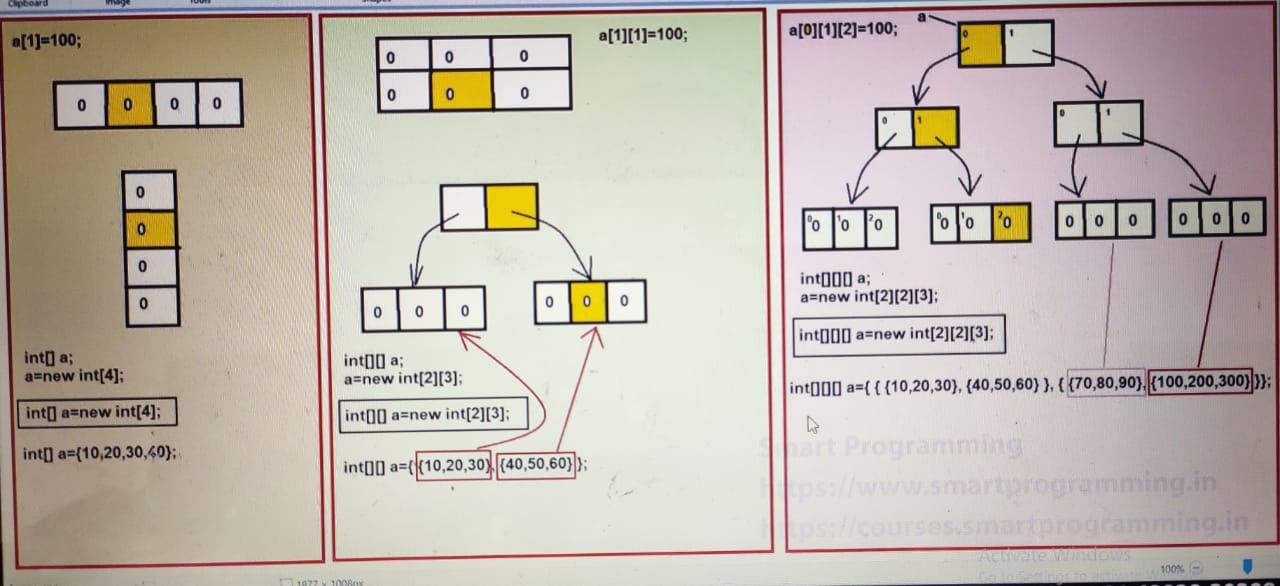
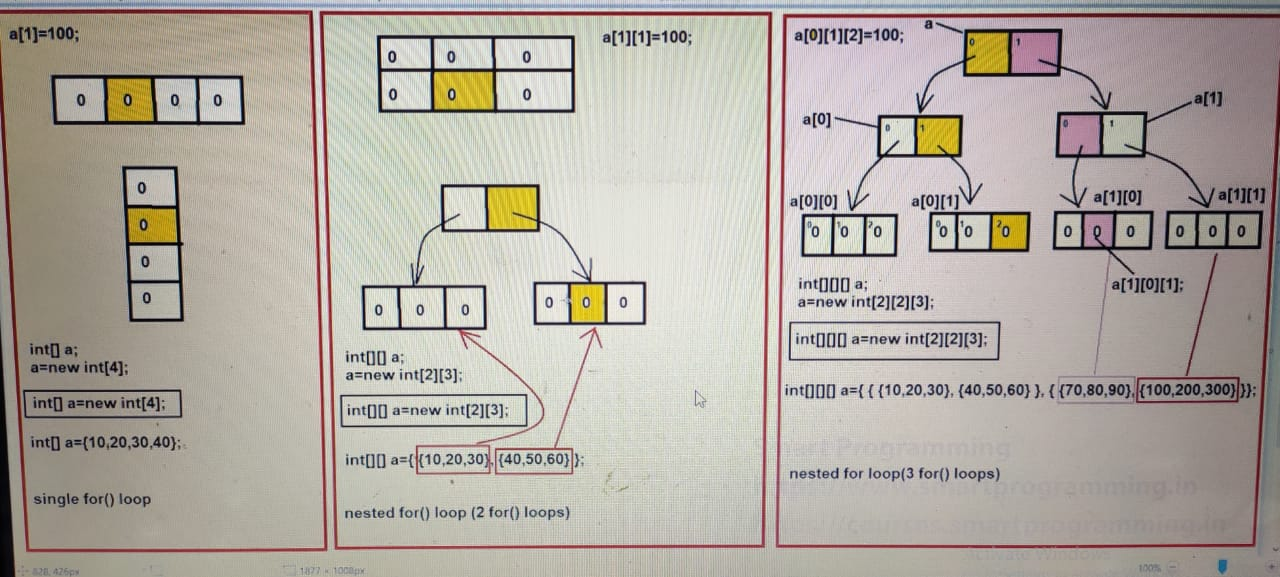
3D L by SM

diff --git a/sp/Array/README.md b/sp/Array/README.md
@@ -134,8 +134,36 @@
 
             - Creation:
                 - We can create an array by using new keyword. 
+                - Cases for creations:
+                    - a = new int[2][2][3]; ✔
+                    - a = new int[2][2][]; ✔
+                    - a = new int[2][][]; ✔
+                    - a = new int[][][]; ❌(Compile time error)
+                    - a = new int[2][][3]; ❌ (Compile time error)
             - Initialization:
                 - a[0][1][2] = 100;
+                - int[][][] a = {{{10, 20, 30}, {40, 50, 60}}, {{70, 80, 90}, {100, 200, 300}}}
+                
+                - System.out.println(a); // [[[I@659e0bfd = [[[ - 3D : I - Integer : @ : <hexadecimalvalue>
+                - System.out.println(a[1]); // [[I@<hexadecimalvalue>
+                - System.out.println(a[0][0]); // [I@<hexadecimalvalue>
+
+                - System.out.println(a.length); // ✔ Output: 2
+                - System.out.println(a[0].length); // ✔ Output: 2
+                - System.out.println(a[0][0].length); // ✔ Output: 3
+                - System.out.prinln(a[0][0][0].length); ❌ error
+                - System.out.println(a[0][2].length); ❌ error (ArrayIndexOutOfBounce) 
+            
+            - Retrieve:
+                - We can retrieve the elements of 3D array by using 3 for loops
+                - for (int i=0; i<a.length; i++) {
+                    for (int j=0; j<a[i].length; j++) {
+                        for (int k=0; k<a[i][j]; k++) {
+                            System.out.println(a[i][j][k]);
+                        }
+                    }
+                }
+            
 
 
     - 4D, 5D, 6D... Array
@@ -144,7 +172,7 @@
 <img src="./array_1_2_3D.jpg" />
 
 
-##  Example:
+##  Example: 
         - class TwoDArrat() {
             public static void main(String[] args) {
                 //TwoDArray ob=new TwoDArray();
